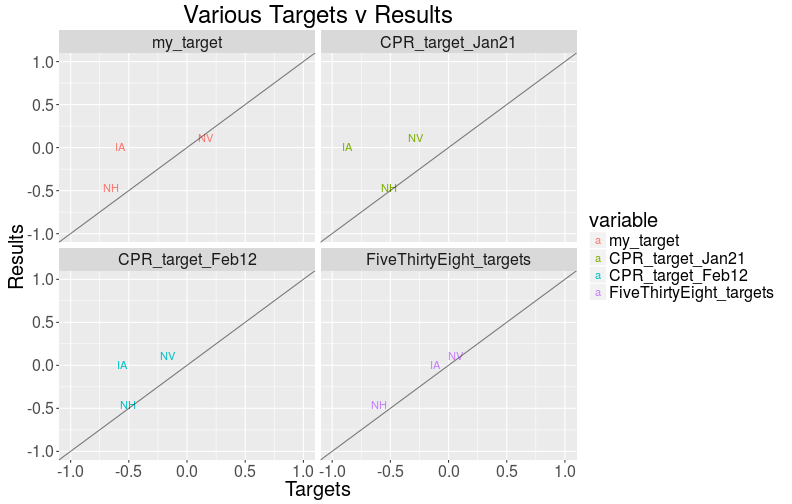
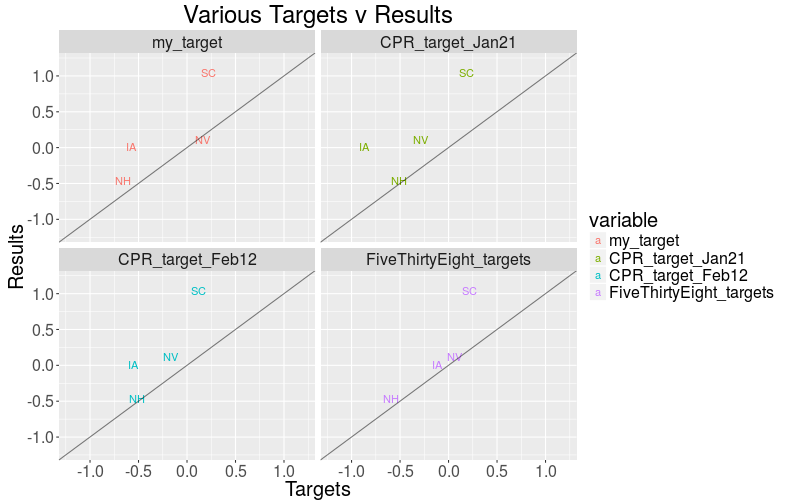
Fixed bugs

diff --git a/polls.md b/polls.md
@@ -8,41 +8,6 @@ permalink : /polls/
 
 
 
-
-{% highlight text %}
-## Error: Unknown variables: FiveThirtyEight_target.
-{% endhighlight %}
-
-
-
-{% highlight text %}
-## Error in fix.by(by.x, x): 'by' must specify a uniquely valid column
-{% endhighlight %}
-
-
-
-{% highlight text %}
-## Error in eval(expr, envir, enclos): wrong result size (0), expected 51 or 1
-{% endhighlight %}
-
-
-
-{% highlight text %}
-## Error in eval(expr, envir, enclos): object 'clinton_result' not found
-{% endhighlight %}
-
-
-
-{% highlight text %}
-## Error: measure variables not found in data: Sanders, Clinton
-{% endhighlight %}
-
-
-
-{% highlight text %}
-## Error in eval(expr, envir, enclos): object 'Estimate' not found
-{% endhighlight %}
-
 ![center](/../figs/polls/unnamed-chunk-1-1.png)
 
 This chart seeks to satisfy some of my more particular desires in charts, as well as add a bit of information.
@@ -63,22 +28,5 @@ This is to take with a huge grain of salt: not every state is here, and many of 
 In addition, every candidate underperforms in surveys, due to undecided voters, so expect everyone to do better than expected (especially Sanders).
 To correct for that, I take the LOR of the Clinton share to the Sanders share, which correctly averages around 0, this may or may not be a bad idea.
 States whose primary day is past have their estimate replaced by the actual results.
-
-
-{% highlight text %}
-## Error in fix.by(by.y, y): 'by' must specify uniquely valid columns
-{% endhighlight %}
-
-
-
-{% highlight text %}
-## Error in eval(expr, envir, enclos): c("do not know how to convert 'function () ' to class \"Date\"", "do not know how to convert '.Internal(date())' to class \"Date\"")
-{% endhighlight %}
-
-
-
-{% highlight text %}
-## Error in layout_base(data, vars, drop = drop): At least one layer must contain all variables used for facetting
-{% endhighlight %}
 
 ![center](/../figs/polls/unnamed-chunk-2-1.png)

diff --git a/targets.md b/targets.md
@@ -11,28 +11,10 @@ permalink : /targets/
 States above the diagonal are where Clinton exceeded targets, below Sanders is exceeding target, more in my (first!) [blog post]({% post_url 2016-02-10-targets-v-results %})
 Arbitrarely, positive indicates "Clinton-ness", 0 is neutral and negative is "Sanders-ness".
 
-
-{% highlight text %}
-## Error in `$<-.data.frame`(`*tmp*`, "result", value = numeric(0)): replacement has 0 rows, data has 51
-{% endhighlight %}
-
-
-
-{% highlight text %}
-## Error: id variables not found in data: result
-{% endhighlight %}
-
-
-
-{% highlight text %}
-## Error in ggplot(state_targets, aes(x = value, y = result, color = variable)): object 'state_targets' not found
-{% endhighlight %}
+![center](/../figs/targets/unnamed-chunk-1-1.png)
 
 Because the distance from the diagonal is what we care about, here's a change of coordinates:
-
-{% highlight text %}
-## Error in ggplot(state_targets, aes(x = value, y = result - value, color = variable)): object 'state_targets' not found
-{% endhighlight %}
+![center](/../figs/targets/unnamed-chunk-2-1.png)
 The targets used are:
 
 - [Cook Political Report, Jan 21](http://cookpolitical.com/story/9179).
